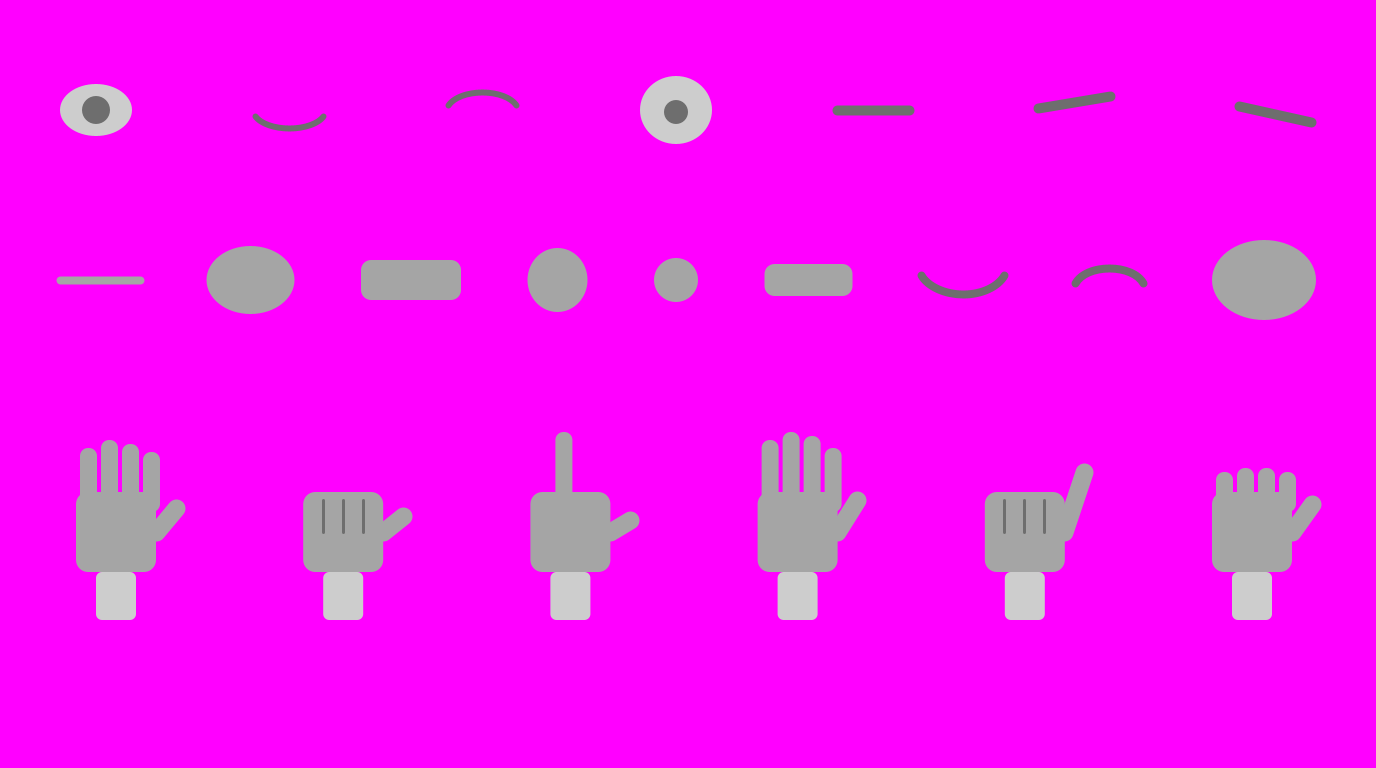
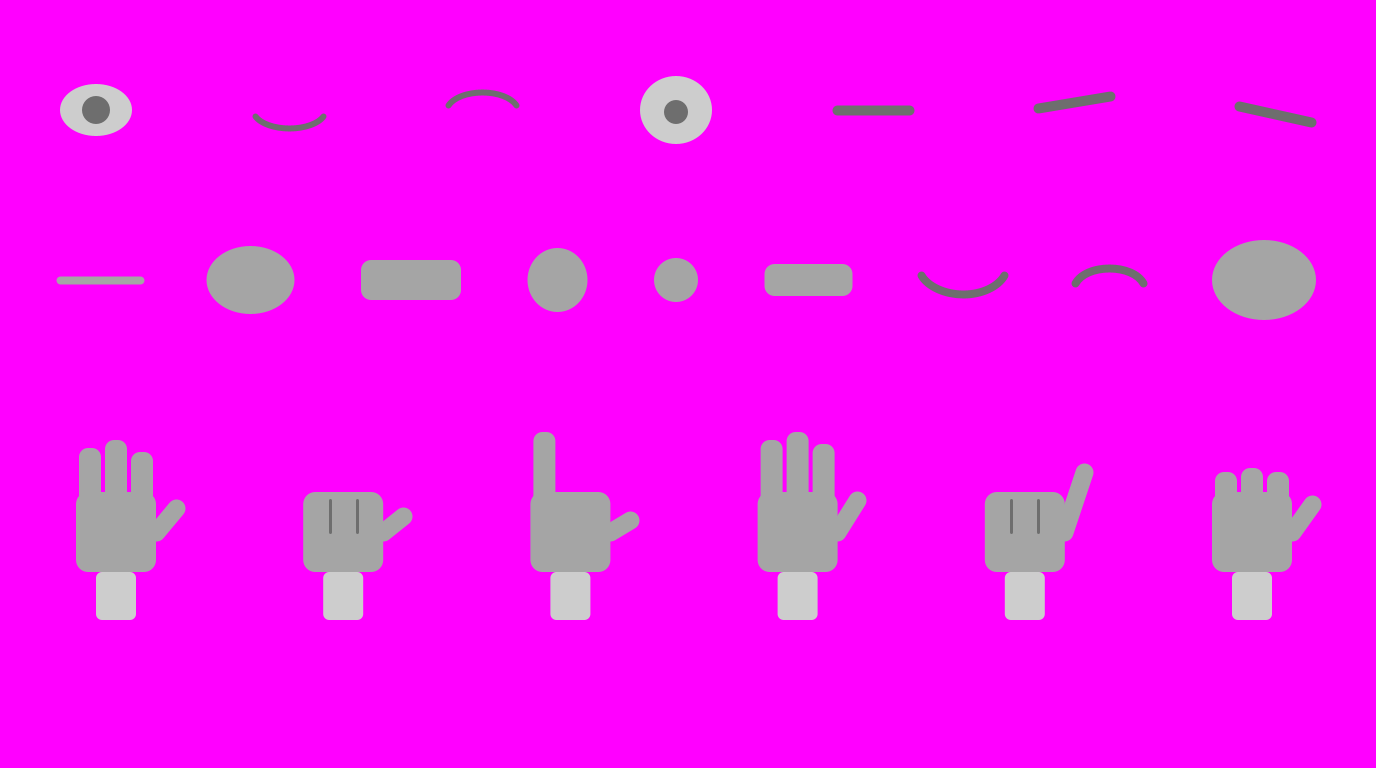
Tờ mẫu mặt: bàn tay hình nộm 3 ngón và ngón cái (chuẩn cut-out, đúng thiết kế Kai) thay vì 4 ngón; prompt nói rõ số ngón theo hình gốc

diff --git a/tools/src/main/kotlin/com/example/storyrig/tools/Templates.kt b/tools/src/main/kotlin/com/example/storyrig/tools/Templates.kt
@@ -160,7 +160,7 @@ private class FaceSlot(val name: String, val w: Double, val h: Double, val draw:
 
 /**
  * The face sheet: row 1 the front eye (open, closed, happy, wide) and brows (neutral, raised, frown), row 2 nine mouths
- * (M, AI, E, O, U, FV, smile, sad, laugh), row 3 six hands (relaxed, fist, point, open palm, thumb up, grip).
+ * (M, AI, E, O, U, FV, smile, sad, laugh), row 3 six hands (relaxed, fist, point, open palm, thumb up, grip), three fingers and a thumb.
  * Sizes are body units times FACE_SCALE (eye 36 x 26, mouth about 45 wide, hand 70 tall with a 24 px wrist stub).
  */
 internal fun drawFaceTemplate(out: File) {
@@ -193,16 +193,17 @@ internal fun drawFaceTemplate(out: File) {
             else -> gg.fill(RoundRectangle2D.Double(x, y, w * k, h * k, 10 * k, 10 * k))
         }
     }
-    // Hands: palm block with fingers (a list of finger heights, 0 = folded) and a thumb; a wrist stub below.
+    // Hands: cartoon hands, three fingers and a thumb (the classic cut-out convention Kai's design follows): a palm
+    // block with fingers (a list of finger heights, 0 = folded) and a thumb; a wrist stub below.
     fun hand(name: String, fingers: List<Double>, thumb: Double?, fist: Boolean = false) = FaceSlot(name, 60 * k, 94 * k) { gg, x, y ->
         val px = x + 8 * k; val py = y + 28 * k
         gg.color = grey
         if (!fist) for ((i, f) in fingers.withIndex()) if (f > 0) {
-            gg.fill(RoundRectangle2D.Double(px + (2 + i * 10.5) * k, py - f * k, 8.5 * k, (f + 10) * k, 8 * k, 8 * k))
+            gg.fill(RoundRectangle2D.Double(px + (1.5 + i * 13) * k, py - f * k, 11 * k, (f + 10) * k, 9 * k, 9 * k))
         }
         gg.fill(RoundRectangle2D.Double(px, py, 40 * k, 40 * k, 12 * k, 12 * k))
         if (thumb != null) { stroke(9 * k); gg.draw(Line2D.Double(px + 40 * k, py + 20 * k, px + (40 + 10) * k, py + (20 - thumb) * k)) }
-        if (fist) { gg.color = dark; stroke(1.5 * k); for (i in 1..3) gg.draw(Line2D.Double(px + (i * 10) * k, py + 4 * k, px + (i * 10) * k, py + 20 * k)) }
+        if (fist) { gg.color = dark; stroke(1.5 * k); for (i in 1..2) gg.draw(Line2D.Double(px + (i * 13.5) * k, py + 4 * k, px + (i * 13.5) * k, py + 20 * k)) }
         gg.color = light
         gg.fill(RoundRectangle2D.Double(px + 10 * k, py + 40 * k, 20 * k, 24 * k, 6 * k, 6 * k))
     }
@@ -213,8 +214,8 @@ internal fun drawFaceTemplate(out: File) {
             mouth("mouth_u", 22.0, 22.0, 1), mouth("mouth_fv", 44.0, 16.0, 4), mouth("mouth_smile", 44.0, 14.0, 2), mouth("mouth_sad", 36.0, 12.0, 3), mouth("mouth_laugh", 52.0, 40.0, 1),
         ),
         listOf(
-            hand("hand_relaxed", listOf(22.0, 26.0, 24.0, 20.0), 12.0), hand("hand_fist", listOf(), 8.0, fist = true), hand("hand_point", listOf(0.0, 30.0, 0.0, 0.0), 6.0),
-            hand("hand_open", listOf(26.0, 30.0, 28.0, 22.0), 16.0), hand("hand_thumb_up", listOf(), 30.0, fist = true), hand("hand_grip", listOf(10.0, 12.0, 12.0, 10.0), 14.0),
+            hand("hand_relaxed", listOf(22.0, 26.0, 20.0), 12.0), hand("hand_fist", listOf(), 8.0, fist = true), hand("hand_point", listOf(30.0, 0.0, 0.0), 6.0),
+            hand("hand_open", listOf(26.0, 30.0, 24.0), 16.0), hand("hand_thumb_up", listOf(), 30.0, fist = true), hand("hand_grip", listOf(10.0, 12.0, 10.0), 14.0),
         ),
     )
     val lines = ArrayList<String>()
